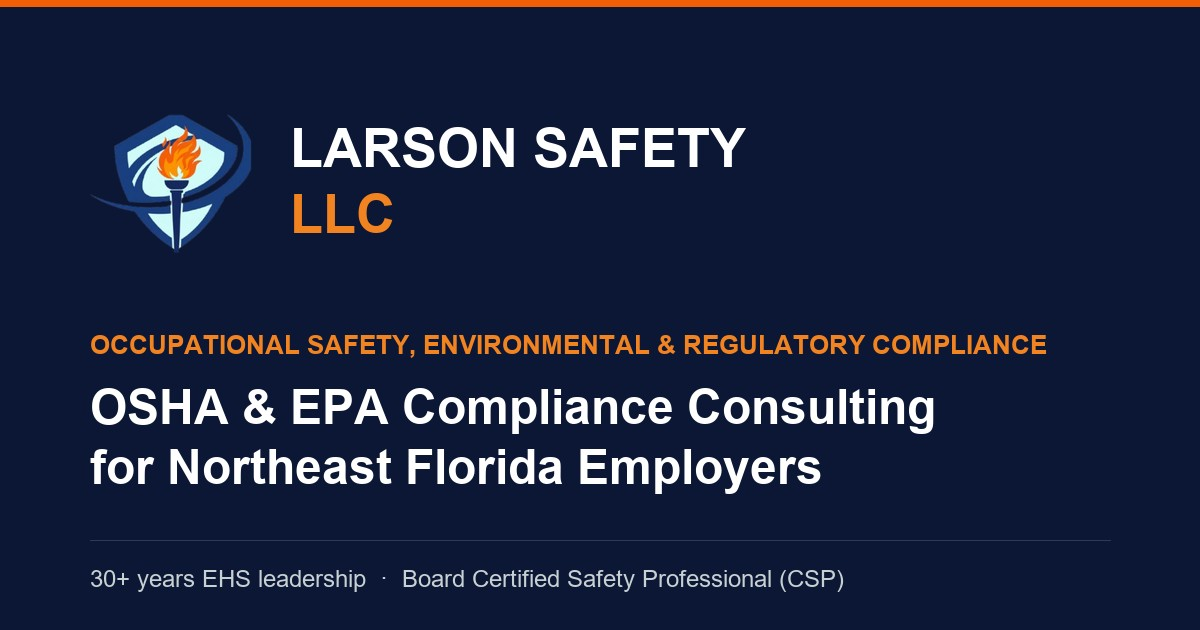
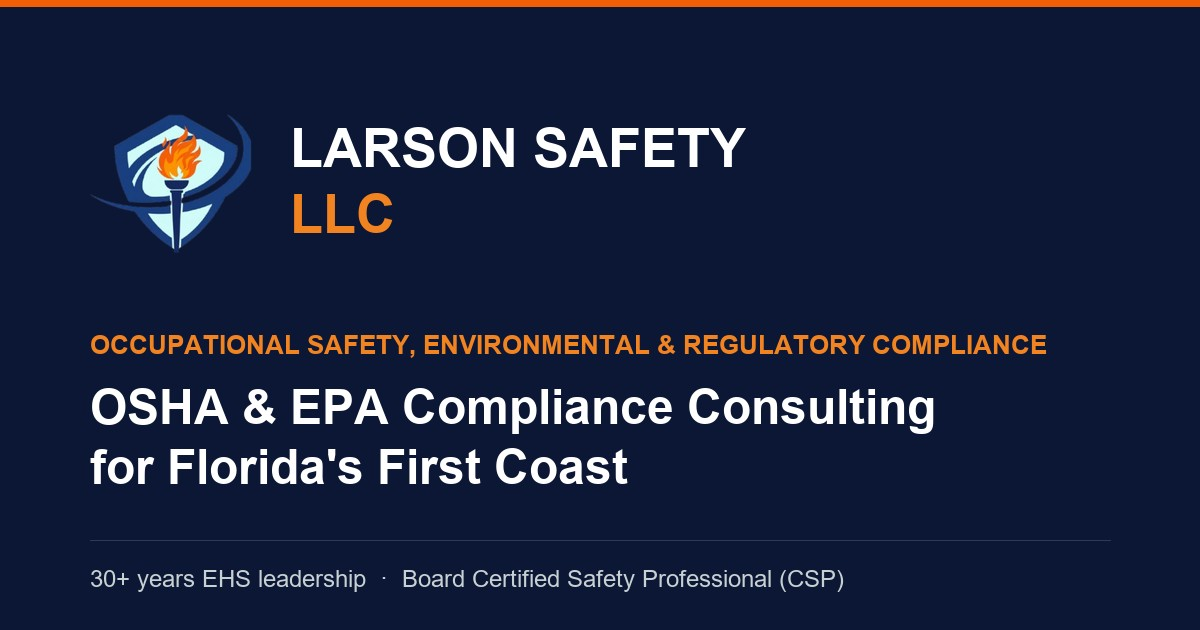
Adjustments to geo references

Changed region(s): [[0.1233, 0.6937, 0.6783, 0.7841]]

diff --git a/src/data/content.ts b/src/data/content.ts
@@ -31,15 +31,20 @@ export const site = {
   // (brand name alone had zero search-relevant keywords; the old
   // description ran ~213 chars, well past Google's effective ~155-160 char
   // display budget, so it was already being cut off blind).
+  // "NE Florida" -> "First Coast" throughout the site, 2026-10-13 — the
+  // specific city range (Fernandina Beach/Jacksonville down to Palm Coast,
+  // Gainesville to St. Augustine) lives in the FAQ answer and structured
+  // data, where there's room for it; the short regional name goes everywhere
+  // else so it doesn't crowd tight copy like the title tag or footer blurb.
   name: 'Larson Safety LLC.',
-  title: 'Larson Safety | OSHA & EPA Compliance Consulting, NE Florida',
+  title: 'Larson Safety | OSHA & EPA Compliance Consulting, First Coast FL',
   description:
-    'OSHA & EPA compliance consulting for small and mid-sized NE Florida employers. Written programs, audits, and fractional safety support — no full-time hire needed.',
+    'OSHA & EPA compliance consulting for small and mid-sized First Coast employers. Written programs, audits, and fractional safety support — no full-time hire needed.',
   phone: '(904) 517-2187',
   phoneHref: 'tel:+19045172187',
   phoneLabel: 'Call 904-517-2187',
   email: 'bill@larsonsafe.com',
-  location: 'Northeast Florida',
+  location: 'First Coast, FL',
 };
 
 export const nav = [
@@ -53,7 +58,7 @@ export const nav = [
 
 export const hero = {
   eyebrow: 'Occupational Safety, Environmental & Regulatory Compliance.',
-  title: 'Trusted Safety & Environmental Compliance Consulting for NE Florida',
+  title: 'Trusted Safety & Environmental Compliance Consulting for the First Coast',
   // Leads with direct self-recognition ("no safety department? that's who
   // we work with") rather than burying it at the end of the paragraph —
   // per client direction, proactive/due-diligence framing only, no
@@ -232,8 +237,8 @@ export const faq = {
       a: 'A full-time safety director can cost $80k–$120k+ per year in salary and benefits. Fractional support gives you the same certified expertise — a Board Certified Safety Professional — on a schedule and budget that fits your operation, scaling up or down as needs change.',
     },
     {
-      q: 'Do you work with businesses outside Northeast Florida?',
-      a: 'We work with business across the U.S.',
+      q: 'Do you work with businesses outside the First Coast?',
+      a: 'Our core service area is the First Coast — from Fernandina Beach and Jacksonville down to Palm Coast, and from Gainesville to St. Augustine. We also work with businesses across the U.S.',
     },
   ],
 };
@@ -255,7 +260,7 @@ export const contact = {
 
 export const footer = {
   blurb:
-    'Workplace safety and environmental compliance consulting for small and mid-sized employers in Northeast Florida.',
+    'Workplace safety and environmental compliance consulting for small and mid-sized employers on the First Coast.',
   columns: [
     {
       title: 'Services',

diff --git a/scripts/generate-og-image.py b/scripts/generate-og-image.py
@@ -64,7 +64,7 @@ draw.text(
     font=font("arialbd.ttf", 48),
     fill=WHITE,
 )
-draw.text((90, 440), "for Northeast Florida Employers", font=font("arialbd.ttf", 48), fill=WHITE)
+draw.text((90, 440), "for Florida's First Coast", font=font("arialbd.ttf", 48), fill=WHITE)
 
 # Footer line.
 draw.line([(90, 540), (W - 90, 540)], fill=(42, 59, 82), width=1)

diff --git a/PORTING-NOTES.md b/PORTING-NOTES.md
@@ -282,3 +282,16 @@ serving at their expected paths from a built preview; both JSON-LD blocks
 parsed and validated as well-formed JSON; Playwright screenshots of the FAQ
 and footer sections confirmed pixel-identical to before the heading changes,
 at both 1440×900 and 390×844; no console/page errors.
+
+### Region name: "NE Florida" → "First Coast" (2026-10-13)
+
+Resolves the "city/county-specific mentions" recommendation from the
+SEO/AEO/GEO summary above — the client confirmed the regional name and
+specific service area. Every mention of "NE Florida"/"Northeast Florida"
+across `content.ts`, `Layout.astro`'s structured data, and `llms.txt` was
+replaced with "First Coast." The specific city range (Fernandina Beach and
+Jacksonville down to Palm Coast, Gainesville to St. Augustine) was added in
+two places with room for it — the FAQ's geographic-coverage answer, and the
+JSON-LD `areaServed` array as individual `City` entries, which is a direct
+local-search coverage signal, not just prose. `public/og-image.jpg` was
+regenerated (`scripts/generate-og-image.py`) to match.
